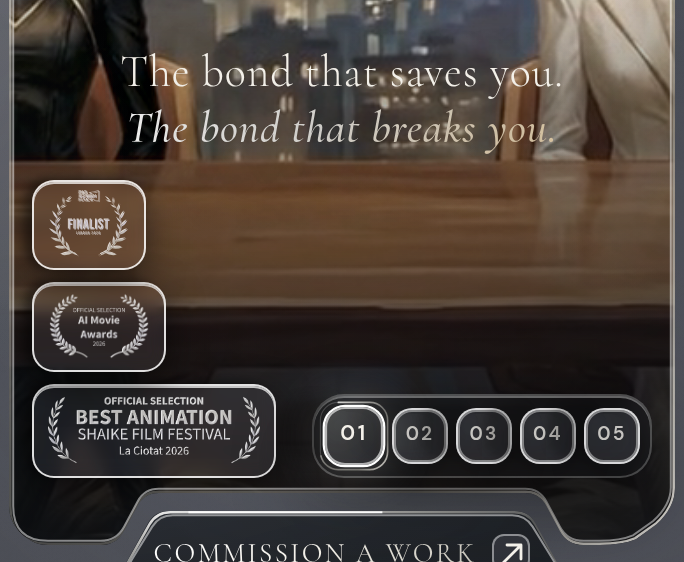
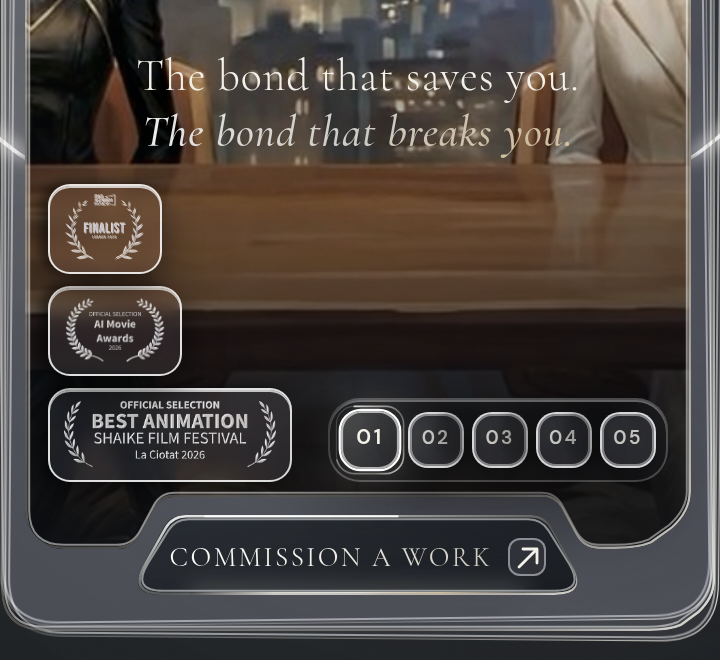
Bring the side light circles through the HUD glass.
Seat each chord inside the cinema frame so the arc crosses both frosted sheets before it crests in the dark margin, and keep the stroke bright along that crossing.

diff --git a/assets/js/app.js b/assets/js/app.js
@@ -456,16 +456,37 @@
     const rTop = isMobile ? Math.round(Math.min(w * 0.24, 95)) : 155;
     const cx = Math.round(w * (isMobile ? 0.74 : 0.78));
     const cy = isMobile ? 110 : 180;
-    const rLeft = isMobile ? 110 : 190;
-    const xLeft = isMobile ? 28 : 55;
-    const rRight = isMobile ? 95 : 155;
-    const xRight = w - (isMobile ? 28 : 62);
-    const cyLeft = Math.round(h * 0.56);
-    const cyRight = Math.round(h * 0.39);
+
+    // Side circles share the emitter's pixel box. Their chords sit inside
+    // the cinema frame (the video hides the tips) and the minor arc bulges
+    // outward, so the bright stroke crosses both frosted sheets and crests
+    // in the dark margin. A chord on the outer rim never enters the glass.
+    const viewport = document.getElementById("cinema-viewport");
+    const emitterRect = emitter.getBoundingClientRect();
+    const vpRect = viewport && viewport.clientWidth > 2 ? viewport.getBoundingClientRect() : null;
+    const vpLeft = vpRect ? vpRect.left - emitterRect.left : w * 0.12;
+    const vpRight = vpRect ? vpRect.right - emitterRect.left : w * 0.88;
+    const vpTop = vpRect ? vpRect.top - emitterRect.top : h * 0.16;
+    const vpBottom = vpRect ? vpRect.bottom - emitterRect.top : h * 0.84;
+    const inset = isMobile ? 24 : 50;
+    const lx = Math.round(vpLeft + inset);
+    const rx = Math.round(vpRight - inset);
+
+    let sideR = isMobile ? Math.round(h * 0.17) : Math.round(h * 0.25);
+    let dy = sideR * 0.92;
+    const chordRoom = Math.max(48, (vpBottom - vpTop) / 2 - (isMobile ? 18 : 28));
+    if (dy > chordRoom) {
+      dy = chordRoom;
+      sideR = dy / 0.92;
+    }
+    const cySide = Math.round((vpTop + vpBottom) / 2);
+    const y1 = Math.round(cySide - dy);
+    const y2 = Math.round(cySide + dy);
+    sideR = Math.round(sideR);
 
     const topD = `M ${cx - rTop} ${cy} A ${rTop} ${rTop} 0 0 1 ${cx + rTop} ${cy}`;
-    const leftD = `M ${xLeft} ${cyLeft - rLeft} A ${rLeft} ${rLeft} 0 0 0 ${xLeft} ${cyLeft + rLeft}`;
-    const rightD = `M ${xRight} ${cyRight - rRight} A ${rRight} ${rRight} 0 0 1 ${xRight} ${cyRight + rRight}`;
+    const leftD = `M ${lx} ${y1} A ${sideR} ${sideR} 0 0 0 ${lx} ${y2}`;
+    const rightD = `M ${rx} ${y1} A ${sideR} ${sideR} 0 0 1 ${rx} ${y2}`;
 
     svg.innerHTML = `
       <path d="${leftD}" fill="none" stroke="url(#champagne-arc-grad-vert)" stroke-width="5.5" stroke-linecap="round" class="caustic-arc caustic-arc--left" />

diff --git a/index.html b/index.html
@@ -71,19 +71,27 @@
         <stop offset="80%" stop-color="#E4E2DD" stop-opacity="0.75" />
         <stop offset="100%" stop-color="#C5C2B8" stop-opacity="0" />
       </linearGradient>
-      <!-- Side arcs: fade along the vertical span so the tips dissolve -->
+      <!-- Side arcs: tips dissolve behind the cinema frame. The stroke is
+           already bright from 6% to 94%, which is where the circle crosses
+           the frosted HUD panels. -->
       <linearGradient id="champagne-arc-grad-vert" x1="0%" y1="0%" x2="0%" y2="100%">
         <stop offset="0%" stop-color="#E4E2DD" stop-opacity="0" />
-        <stop offset="25%" stop-color="#F4F1EA" stop-opacity="0.88" />
-        <stop offset="55%" stop-color="#DFC8A2" stop-opacity="0.96" />
-        <stop offset="80%" stop-color="#E4E2DD" stop-opacity="0.75" />
+        <stop offset="4%" stop-color="#E4E2DD" stop-opacity="0" />
+        <stop offset="6%" stop-color="#F4F1EA" stop-opacity="0.85" />
+        <stop offset="20%" stop-color="#F4F1EA" stop-opacity="0.95" />
+        <stop offset="50%" stop-color="#DFC8A2" stop-opacity="0.95" />
+        <stop offset="80%" stop-color="#F4F1EA" stop-opacity="0.95" />
+        <stop offset="94%" stop-color="#F4F1EA" stop-opacity="0.85" />
+        <stop offset="96%" stop-color="#C5C2B8" stop-opacity="0" />
         <stop offset="100%" stop-color="#C5C2B8" stop-opacity="0" />
       </linearGradient>
       <linearGradient id="champagne-core-vert" x1="0%" y1="0%" x2="0%" y2="100%">
         <stop offset="0%" stop-color="#F4F1EA" stop-opacity="0" />
-        <stop offset="22%" stop-color="#F4F1EA" stop-opacity="0.92" />
+        <stop offset="4%" stop-color="#F4F1EA" stop-opacity="0" />
+        <stop offset="6%" stop-color="#F4F1EA" stop-opacity="0.90" />
         <stop offset="50%" stop-color="#F4F1EA" stop-opacity="0.96" />
-        <stop offset="78%" stop-color="#F4F1EA" stop-opacity="0.92" />
+        <stop offset="94%" stop-color="#F4F1EA" stop-opacity="0.90" />
+        <stop offset="96%" stop-color="#F4F1EA" stop-opacity="0" />
         <stop offset="100%" stop-color="#F4F1EA" stop-opacity="0" />
       </linearGradient>
       <!-- Top crest: user space is rewritten to the arc's pixel span -->
